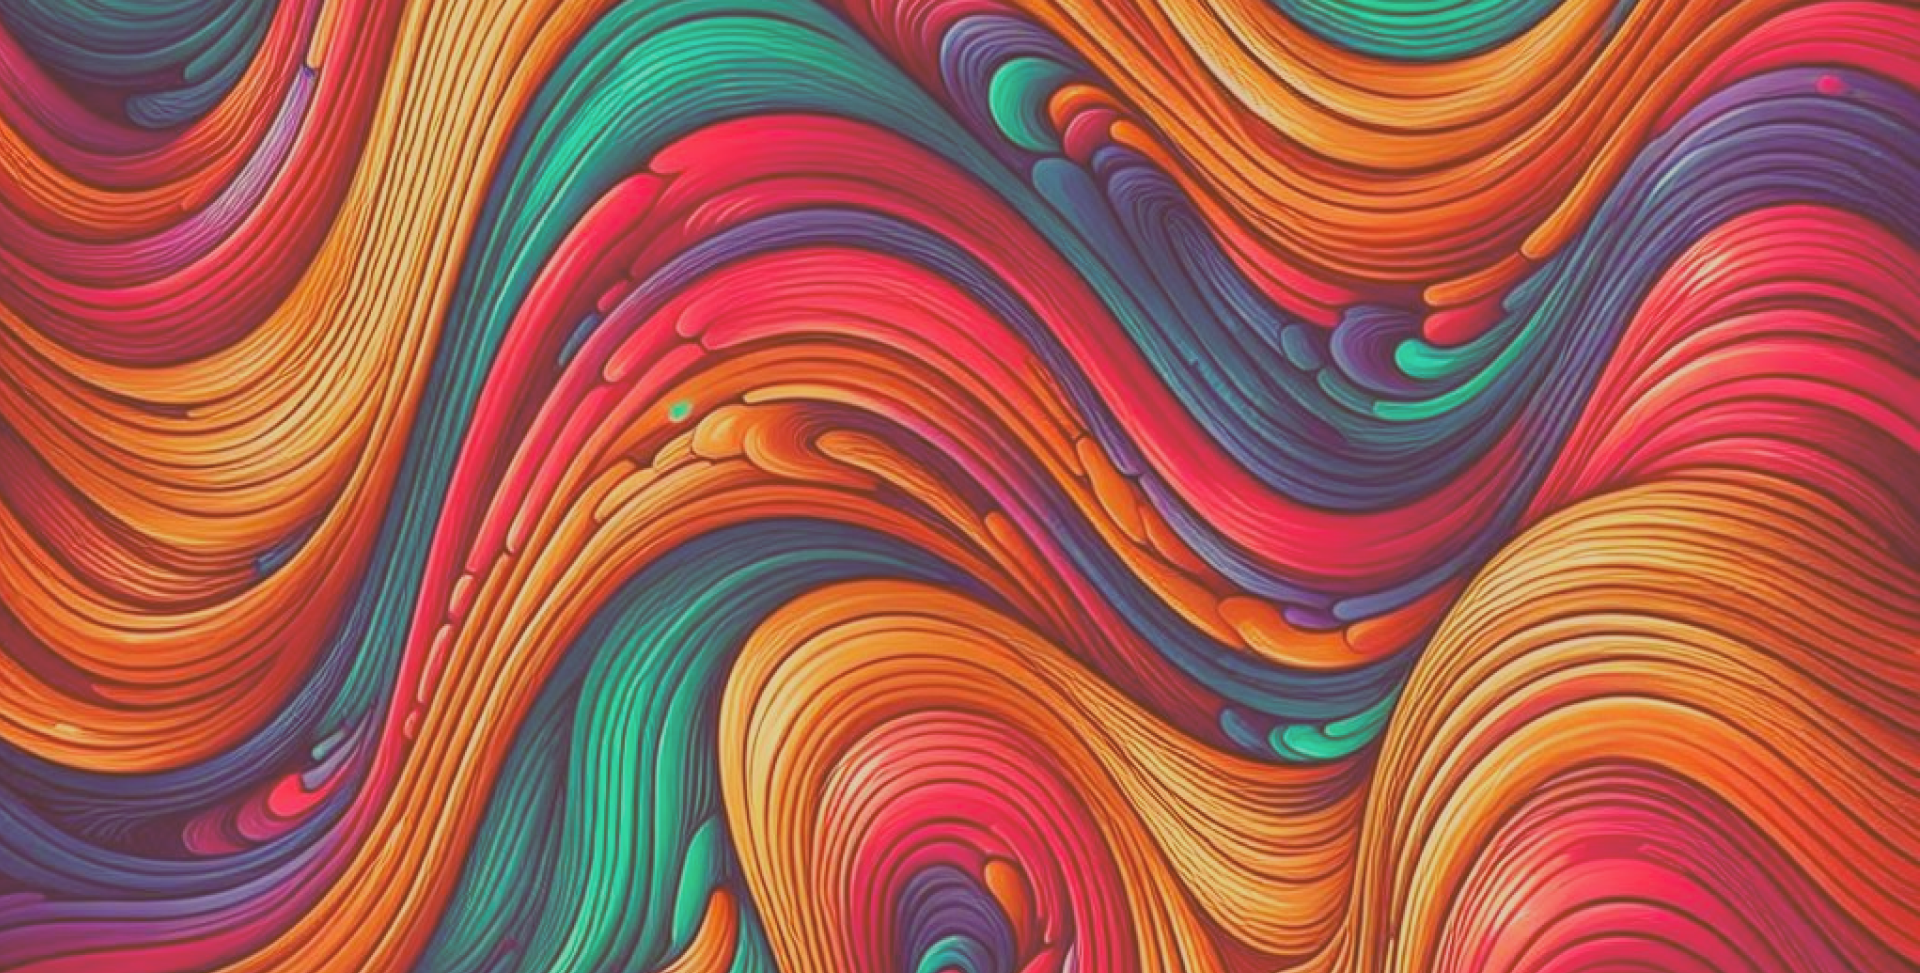
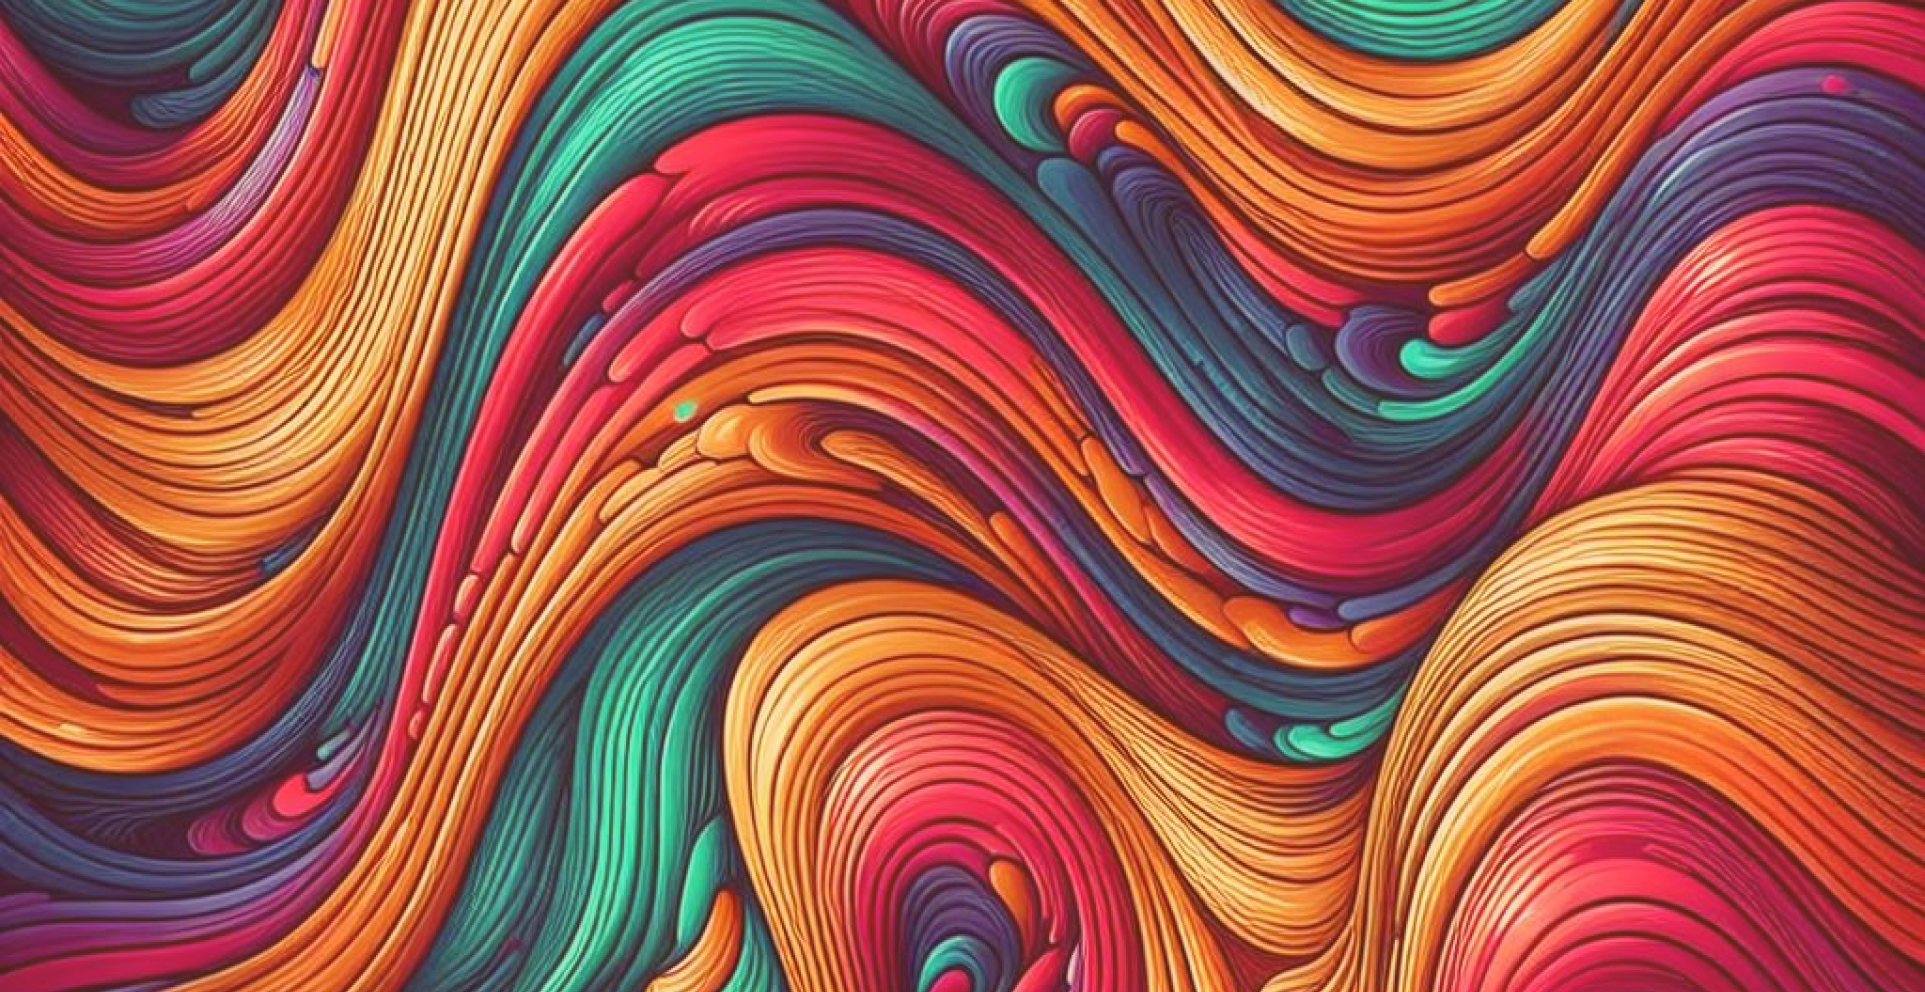
added divider

diff --git a/app/(sections)/Hero.tsx b/app/(sections)/Hero.tsx
@@ -4,20 +4,28 @@ import BentoGrid, { BentoItem } from '@/components/layout/BentoGrid'
 import ImageBackground from '@/components/layout/ImageBackground2'
 import { TextDisplay, TextHeading } from '@/components/text/Text'
 import React, { Suspense } from 'react'
+import Image from 'next/image'
 
 type Props = {}
 
 export default function Hero({ }: Props) {
   return (
     <section id='home' className='w-full text-white'>
-      <ImageBackground priority imageUrl='/HeroBG.png' className='' containerClassName=''>
+      <ImageBackground priority imageUrl='/HeroBG2.jpg' className='' containerClassName=''>
         <BentoGrid cols={4} mdCols={12} lgCols={12} className='w-screen z-20' >
 
-          <BentoItem colSpan={4} mdColSpan={3} lgColSpan={3} className='z-0 pt-28 md:pt-0 md:h-screen md:col-start-3 lg:col-start-3'>
-            <div className='flex flex-col justify-center items-center h-full'>
-              <TextDisplay text='Jiozon' />
-              <TextHeading text='How About This' />
-              <ButtonCTA text={'Click Here Now!'} />
+          <BentoItem colSpan={4} mdColSpan={3} lgColSpan={3} className='select-none	z-0 pt-28 md:pt-0 md:h-screen md:col-start-3 lg:col-start-3'>
+            <div className='flex flex-col justify-center items-center h-full gap-10'>
+              <TextDisplay textStyle='drop-shadow-md' text='Jiozon' noMargin/>
+              <div className='relative w-[400px] h-[50px]'>
+                <Image fill className='drop-shadow-md absolute z-0 h-full w-full' style={{objectFit: 'cover'}} src='/DividerEye.png' alt='Divider Eye'></Image>
+              </div>
+              <div className='relative min-w-fit inline-block'>
+                <TextHeading textStyle='min-w-max drop-shadow-sm' text='Music & Production' />
+              </div>
+              {
+                /*<ButtonCTA text={'Click Here Now!'} />*/
+              }
 
             </div>
           </BentoItem>

diff --git a/app/page.tsx b/app/page.tsx
@@ -1,12 +1,11 @@
+import About from './(sections)/About'
 import Hero from './(sections)/Hero'
 
 export default function Home() {
   return (
     <main className="flex flex-col">
       <Hero/>
-      <div id='about' className='h-screen bg-orange-doorhinge'>
-        <h1>About</h1>
-      </div>
+      <About/>
       <div id='contact' className='h-screen bg-red-pomegranate'>
         <h1>Contact</h1>
       </div>

diff --git a/app/(sections)/About.tsx b/app/(sections)/About.tsx
@@ -1,0 +1,11 @@
+import React from 'react'
+
+type Props = {}
+
+export default function About({}: Props) {
+  return (
+    <div id='about' className='h-screen bg-orange-doorhinge'>
+        <h1>About</h1>
+    </div>
+  )
+}
